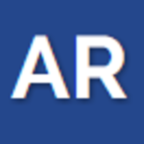
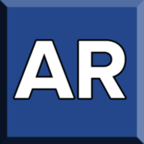
fav + font changes

diff --git a/index.html b/index.html
@@ -280,7 +280,7 @@
               </div>
              <div class="col-sm-6 portfolio-title-box clearfix">
                 <h3 class="portfolio-title">CSS Only Batman</h3>
-                <p class="portfolio-description">The Dark Knight in CSS (Google Chrome/Firefox exclusive)</p>
+                <p class="portfolio-description">The Dark Knight in CSS <br>(Google Chrome/Firefox exclusive)</p>
                 <div class="portfolio-description-border"></div>
                 <div class="section-txt-btn">
                   <p>

diff --git a/css/style.css b/css/style.css
@@ -361,6 +361,7 @@ a .menu-item:hover {
 .skill-description {
     padding-bottom: 16px;
     color: #585858;
+    font-size: 16px;
 }
 .portfolio-img {
     width: 100%;
@@ -394,6 +395,7 @@ a .menu-item:hover {
 }
 .portfolio-description {
     color: #585858;
+    font-size: 16px;
 }
 .portfolio-description-border {
     margin: 15px auto;
